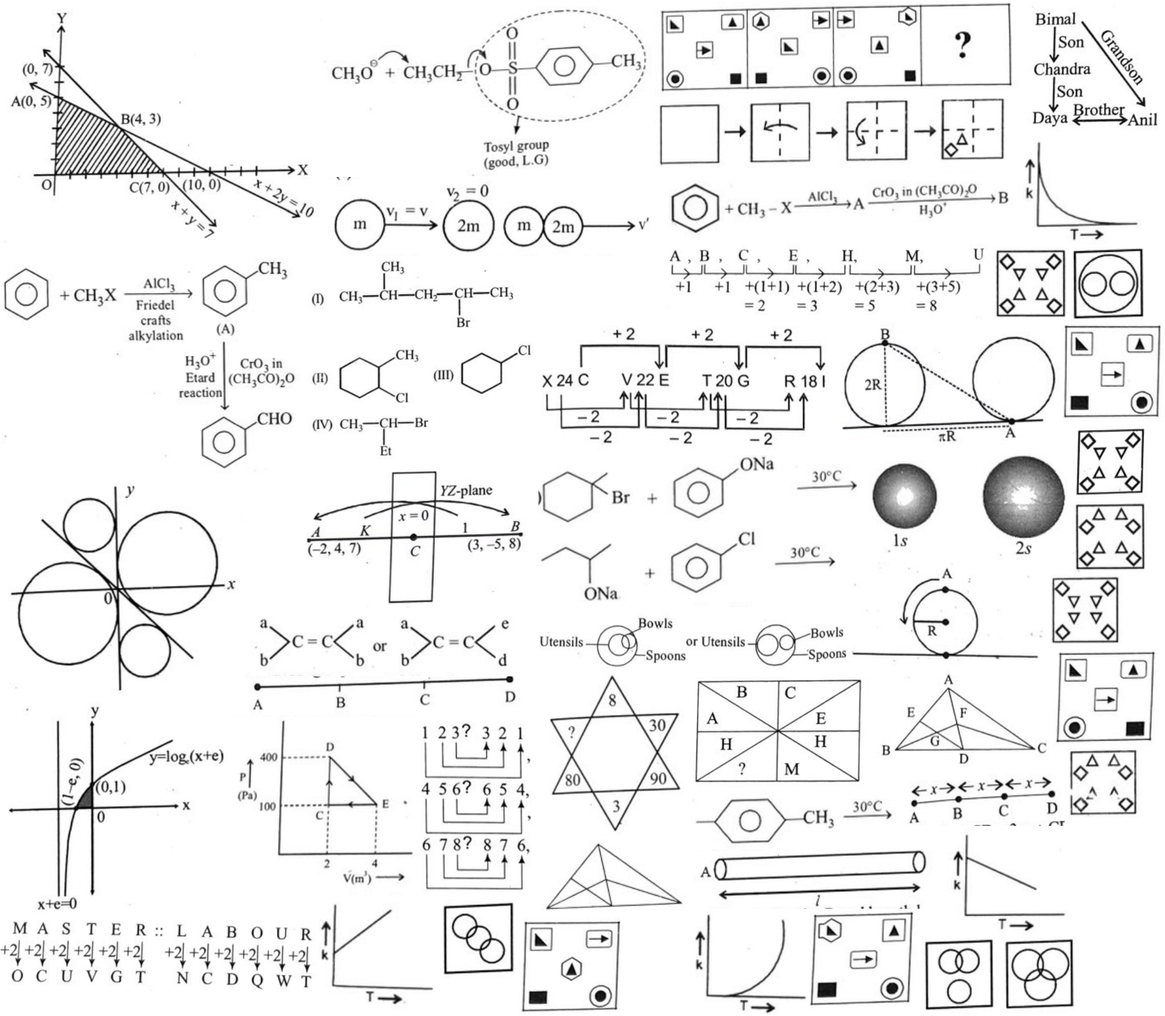
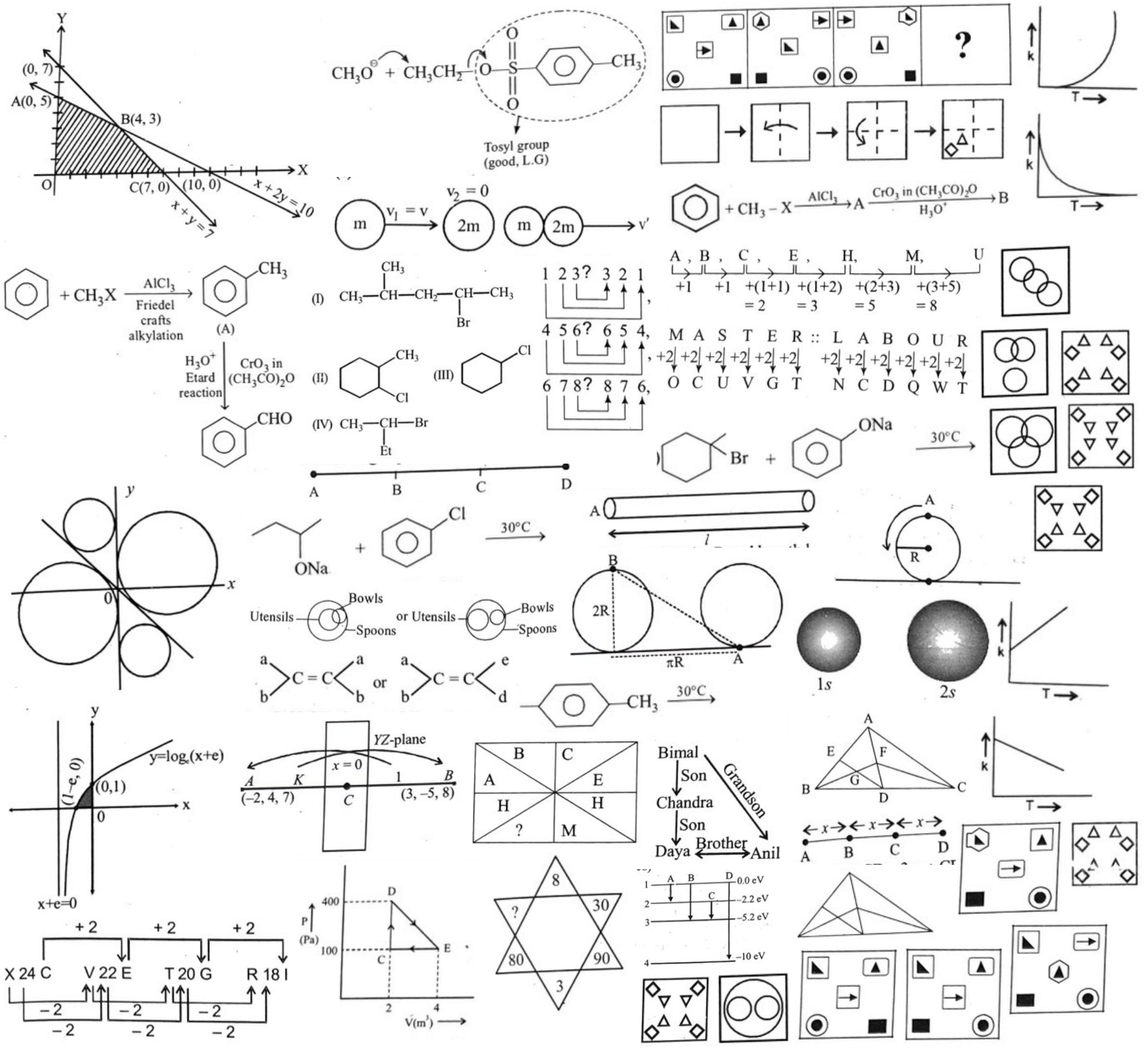
fixed

Changed region(s): [[0.0, 0.0, 1.0, 1.0], [0.0, 0.4601, 0.2173, 0.6748]]

diff --git a/img/engg/bitsat/prev/bitsat_2023_s1.css b/img/engg/bitsat/prev/bitsat_2023_s1.css
@@ -8,151 +8,154 @@ Responsive: <div class="yourspritesname"></div>
 
 
 .BITSAT_2023_S1_Q_1 {max-width:446px; max-height:62px; }
-.BITSAT_2023_S1_Q_1::after {content: '\00a0';display: inline-block; width:446px; height:62px; background-position: 27.668539325842698% 69.19642857142857%;background-size: 419.2825112107623% 2629.032258064516%;background-image: url(bitsat_2023_s1.png);padding: 0; }
+.BITSAT_2023_S1_Q_1::after {content: '\00a0';display: inline-block; width:446px; height:62px; background-position: 34.82014388489208% 45.925925925925924%;background-size: 411.6591928251121% 2712.9032258064517%;background-image: url(bitsat_2023_s1.png);padding: 0; }
 div.BITSAT_2023_S1_Q_1::after {max-width:446px; width:100%;height:0;padding: 0 0 13.90134529147982% 0;}
 .BITSAT_2023_S1_Q_11 {max-width:293px; max-height:289px; }
-.BITSAT_2023_S1_Q_11::after {content: '\00a0';display: inline-block; width:293px; height:289px; background-position: 23.906150919467343% 85.60775540641312%;background-size: 638.2252559726962% 564.0138408304498%;background-image: url(bitsat_2023_s1.png);padding: 0; }
+.BITSAT_2023_S1_Q_11::after {content: '\00a0';display: inline-block; width:293px; height:289px; background-position: 30.84899546338302% 99.06676238334529%;background-size: 626.6211604095563% 582.006920415225%;background-image: url(bitsat_2023_s1.png);padding: 0; }
 div.BITSAT_2023_S1_Q_11::after {max-width:293px; width:100%;height:0;padding: 0 0 98.63481228668942% 0;}
 .BITSAT_2023_S1_Q_23 {max-width:313px; max-height:167px; }
-.BITSAT_2023_S1_Q_23::after {content: '\00a0';display: inline-block; width:313px; height:167px; background-position: 87.79704560051381% 61.65413533834587%;background-size: 597.444089456869% 976.0479041916168%;background-image: url(bitsat_2023_s1.png);padding: 0; }
+.BITSAT_2023_S1_Q_23::after {content: '\00a0';display: inline-block; width:313px; height:167px; background-position: 87.91858174655286% 51.74917491749175%;background-size: 586.5814696485623% 1007.185628742515%;background-image: url(bitsat_2023_s1.png);padding: 0; }
 div.BITSAT_2023_S1_Q_23::after {max-width:313px; width:100%;height:0;padding: 0 0 53.35463258785943% 0;}
+.BITSAT_2023_S1_Q_30 {max-width:221px; max-height:163px; }
+.BITSAT_2023_S1_Q_30::after {content: '\00a0';display: inline-block; width:221px; height:163px; background-position: 63.09597523219814% 91.83673469387755%;background-size: 830.7692307692307% 1031.9018404907974%;background-image: url(bitsat_2023_s1.png);padding: 0; }
+div.BITSAT_2023_S1_Q_30::after {max-width:221px; width:100%;height:0;padding: 0 0 73.75565610859728% 0;}
 .BITSAT_2023_S1_Q_33 {max-width:328px; max-height:180px; }
-.BITSAT_2023_S1_Q_33::after {content: '\00a0';display: inline-block; width:328px; height:180px; background-position: 90.07782101167315% 49.724137931034484%;background-size: 570.1219512195122% 905.5555555555555%;background-image: url(bitsat_2023_s1.png);padding: 0; }
+.BITSAT_2023_S1_Q_33::after {content: '\00a0';display: inline-block; width:328px; height:180px; background-position: 84.0185676392573% 63.38215712383489%;background-size: 559.7560975609756% 934.4444444444445%;background-image: url(bitsat_2023_s1.png);padding: 0; }
 div.BITSAT_2023_S1_Q_33::after {max-width:328px; width:100%;height:0;padding: 0 0 54.8780487804878% 0;}
 .BITSAT_2023_S1_Q_38_O_1 {max-width:188px; max-height:170px; }
-.BITSAT_2023_S1_Q_38_O_1::after {content: '\00a0';display: inline-block; width:188px; height:170px; background-position: 65.9334126040428% 99.93150684931507%;background-size: 994.6808510638298% 958.8235294117648%;background-image: url(bitsat_2023_s1.png);padding: 0; }
+.BITSAT_2023_S1_Q_38_O_1::after {content: '\00a0';display: inline-block; width:188px; height:170px; background-position: 99.5752427184466% 0.06613756613756613%;background-size: 976.5957446808511% 989.4117647058823%;background-image: url(bitsat_2023_s1.png);padding: 0; }
 div.BITSAT_2023_S1_Q_38_O_1::after {max-width:188px; width:100%;height:0;padding: 0 0 90.42553191489361% 0;}
 .BITSAT_2023_S1_Q_38_O_2 {max-width:187px; max-height:183px; }
-.BITSAT_2023_S1_Q_38_O_2::after {content: '\00a0';display: inline-block; width:187px; height:183px; background-position: 30.36244800950683% 99.37802349689012%;background-size: 1000% 890.7103825136612%;background-image: url(bitsat_2023_s1.png);padding: 0; }
+.BITSAT_2023_S1_Q_38_O_2::after {content: '\00a0';display: inline-block; width:187px; height:183px; background-position: 96.78593086719223% 63.50900600400267%;background-size: 981.8181818181819% 919.1256830601093%;background-image: url(bitsat_2023_s1.png);padding: 0; }
 div.BITSAT_2023_S1_Q_38_O_2::after {max-width:187px; width:100%;height:0;padding: 0 0 97.86096256684492% 0;}
 .BITSAT_2023_S1_Q_38_O_3 {max-width:200px; max-height:177px; }
-.BITSAT_2023_S1_Q_38_O_3::after {content: '\00a0';display: inline-block; width:200px; height:177px; background-position: 97.78443113772455% 15.003441156228492%;background-size: 935% 920.9039548022599%;background-image: url(bitsat_2023_s1.png);padding: 0; }
+.BITSAT_2023_S1_Q_38_O_3::after {content: '\00a0';display: inline-block; width:200px; height:177px; background-position: 99.81662591687042% 11.428571428571429%;background-size: 918% 950.2824858757062%;background-image: url(bitsat_2023_s1.png);padding: 0; }
 div.BITSAT_2023_S1_Q_38_O_3::after {max-width:200px; width:100%;height:0;padding: 0 0 88.5% 0;}
 .BITSAT_2023_S1_Q_38_O_4 {max-width:199px; max-height:177px; }
-.BITSAT_2023_S1_Q_38_O_4::after {content: '\00a0';display: inline-block; width:199px; height:177px; background-position: 90.78396169958108% 91.25946317962836%;background-size: 939.6984924623116% 920.9039548022599%;background-image: url(bitsat_2023_s1.png);padding: 0; }
+.BITSAT_2023_S1_Q_38_O_4::after {content: '\00a0';display: inline-block; width:199px; height:177px; background-position: 95.35736102626757% 75.48172757475083%;background-size: 922.6130653266332% 950.2824858757062%;background-image: url(bitsat_2023_s1.png);padding: 0; }
 div.BITSAT_2023_S1_Q_38_O_4::after {max-width:199px; width:100%;height:0;padding: 0 0 88.94472361809045% 0;}
 .BITSAT_2023_S1_Q_53 {max-width:569px; max-height:103px; }
-.BITSAT_2023_S1_Q_53::after {content: '\00a0';display: inline-block; width:569px; height:103px; background-position: 81.70637970791698% 18.271119842829076%;background-size: 328.6467486818981% 1582.5242718446602%;background-image: url(bitsat_2023_s1.png);padding: 0; }
+.BITSAT_2023_S1_Q_53::after {content: '\00a0';display: inline-block; width:569px; height:103px; background-position: 83.89897395422257% 17.66941101963268%;background-size: 322.6713532513181% 1633.009708737864%;background-image: url(bitsat_2023_s1.png);padding: 0; }
 div.BITSAT_2023_S1_Q_53::after {max-width:569px; width:100%;height:0;padding: 0 0 18.101933216168717% 0;}
 .BITSAT_2023_S1_Q_54_O_1 {max-width:524px; max-height:121px; }
-.BITSAT_2023_S1_Q_54_O_1::after {content: '\00a0';display: inline-block; width:524px; height:121px; background-position: 64.19019316493313% 48.04506295559973%;background-size: 356.8702290076336% 1347.107438016529%;background-image: url(bitsat_2023_s1.png);padding: 0; }
+.BITSAT_2023_S1_Q_54_O_1::after {content: '\00a0';display: inline-block; width:524px; height:121px; background-position: 80.33536585365853% 42.40871236386931%;background-size: 350.381679389313% 1390.0826446280992%;background-image: url(bitsat_2023_s1.png);padding: 0; }
 div.BITSAT_2023_S1_Q_54_O_1::after {max-width:524px; width:100%;height:0;padding: 0 0 23.091603053435115% 0;}
 .BITSAT_2023_S1_Q_54_O_2 {max-width:497px; max-height:127px; }
-.BITSAT_2023_S1_Q_54_O_2::after {content: '\00a0';display: inline-block; width:497px; height:127px; background-position: 62.563729060451564% 56.35395874916833%;background-size: 376.2575452716298% 1283.4645669291338%;background-image: url(bitsat_2023_s1.png);padding: 0; }
+.BITSAT_2023_S1_Q_54_O_2::after {content: '\00a0';display: inline-block; width:497px; height:127px; background-position: 29.424943988050785% 51.89710610932476%;background-size: 369.4164989939638% 1324.4094488188975%;background-image: url(bitsat_2023_s1.png);padding: 0; }
 div.BITSAT_2023_S1_Q_54_O_2::after {max-width:497px; width:100%;height:0;padding: 0 0 25.553319919517104% 0;}
 .BITSAT_2023_S1_Q_54_O_3 {max-width:328px; max-height:93px; }
-.BITSAT_2023_S1_Q_54_O_3::after {content: '\00a0';display: inline-block; width:328px; height:93px; background-position: 71.98443579766537% 82.56343526350032%;background-size: 570.1219512195122% 1752.6881720430108%;background-image: url(bitsat_2023_s1.png);padding: 0; }
+.BITSAT_2023_S1_Q_54_O_3::after {content: '\00a0';display: inline-block; width:328px; height:93px; background-position: 54.84084880636605% 68.21900566393958%;background-size: 559.7560975609756% 1808.6021505376343%;background-image: url(bitsat_2023_s1.png);padding: 0; }
 div.BITSAT_2023_S1_Q_54_O_3::after {max-width:328px; width:100%;height:0;padding: 0 0 28.353658536585368% 0;}
 .BITSAT_2023_S1_Q_55 {max-width:379px; max-height:331px; }
-.BITSAT_2023_S1_Q_55::after {content: '\00a0';display: inline-block; width:379px; height:331px; background-position: 32.46143527833669% 31.716705157813703%;background-size: 493.40369393139844% 492.4471299093656%;background-image: url(bitsat_2023_s1.png);padding: 0; }
+.BITSAT_2023_S1_Q_55::after {content: '\00a0';display: inline-block; width:379px; height:331px; background-position: 33.21894303363075% 30.495928941524795%;background-size: 484.4327176781003% 508.1570996978852%;background-image: url(bitsat_2023_s1.png);padding: 0; }
 div.BITSAT_2023_S1_Q_55::after {max-width:379px; width:100%;height:0;padding: 0 0 87.33509234828496% 0;}
 .BITSAT_2023_S1_Q_72 {max-width:581px; max-height:120px; }
-.BITSAT_2023_S1_Q_72::after {content: '\00a0';display: inline-block; width:581px; height:120px; background-position: 81.38091543832428% 10.463576158940397%;background-size: 321.85886402753874% 1358.3333333333333%;background-image: url(bitsat_2023_s1.png);padding: 0; }
+.BITSAT_2023_S1_Q_72::after {content: '\00a0';display: inline-block; width:581px; height:120px; background-position: 83.58565737051792% 10.115236875800257%;background-size: 316.0068846815835% 1401.6666666666667%;background-image: url(bitsat_2023_s1.png);padding: 0; }
 div.BITSAT_2023_S1_Q_72::after {max-width:581px; width:100%;height:0;padding: 0 0 20.65404475043029% 0;}
 .BITSAT_2023_S1_Q_72_O_1 {max-width:123px; max-height:113px; }
-.BITSAT_2023_S1_Q_72_O_1::after {content: '\00a0';display: inline-block; width:123px; height:113px; background-position: 97.88208357183744% 79.03757415952538%;background-size: 1520.3252032520325% 1442.4778761061948%;background-image: url(bitsat_2023_s1.png);padding: 0; }
+.BITSAT_2023_S1_Q_72_O_1::after {content: '\00a0';display: inline-block; width:123px; height:113px; background-position: 99.94162288382954% 83.74760994263862%;background-size: 1492.6829268292684% 1488.495575221239%;background-image: url(bitsat_2023_s1.png);padding: 0; }
 div.BITSAT_2023_S1_Q_72_O_1::after {max-width:123px; width:100%;height:0;padding: 0 0 91.869918699187% 0;}
 .BITSAT_2023_S1_Q_72_O_2 {max-width:124px; max-height:118px; }
-.BITSAT_2023_S1_Q_72_O_2::after {content: '\00a0';display: inline-block; width:124px; height:118px; background-position: 98.39633447880871% 53.042328042328045%;background-size: 1508.0645161290322% 1381.3559322033898%;background-image: url(bitsat_2023_s1.png);padding: 0; }
+.BITSAT_2023_S1_Q_72_O_2::after {content: '\00a0';display: inline-block; width:124px; height:118px; background-position: 98.94859813084112% 33.43989769820972%;background-size: 1480.6451612903227% 1425.4237288135594%;background-image: url(bitsat_2023_s1.png);padding: 0; }
 div.BITSAT_2023_S1_Q_72_O_2::after {max-width:124px; width:100%;height:0;padding: 0 0 95.16129032258064% 0;}
 .BITSAT_2023_S1_Q_72_O_3 {max-width:124px; max-height:118px; }
-.BITSAT_2023_S1_Q_72_O_3::after {content: '\00a0';display: inline-block; width:124px; height:118px; background-position: 96.27720504009164% 60.91269841269841%;background-size: 1508.0645161290322% 1381.3559322033898%;background-image: url(bitsat_2023_s1.png);padding: 0; }
+.BITSAT_2023_S1_Q_72_O_3::after {content: '\00a0';display: inline-block; width:124px; height:118px; background-position: 99.64953271028037% 41.04859335038363%;background-size: 1480.6451612903227% 1425.4237288135594%;background-image: url(bitsat_2023_s1.png);padding: 0; }
 div.BITSAT_2023_S1_Q_72_O_3::after {max-width:124px; width:100%;height:0;padding: 0 0 95.16129032258064% 0;}
 .BITSAT_2023_S1_Q_72_O_4 {max-width:124px; max-height:119px; }
-.BITSAT_2023_S1_Q_72_O_4::after {content: '\00a0';display: inline-block; width:124px; height:119px; background-position: 91.23711340206185% 26.207809397749834%;background-size: 1508.0645161290322% 1369.7478991596638%;background-image: url(bitsat_2023_s1.png);padding: 0; }
+.BITSAT_2023_S1_Q_72_O_4::after {content: '\00a0';display: inline-block; width:124px; height:119px; background-position: 96.55373831775701% 49.45617402431222%;background-size: 1480.6451612903227% 1413.4453781512605%;background-image: url(bitsat_2023_s1.png);padding: 0; }
 div.BITSAT_2023_S1_Q_72_O_4::after {max-width:124px; width:100%;height:0;padding: 0 0 95.96774193548387% 0;}
 .BITSAT_2023_S1_Q_76 {max-width:282px; max-height:189px; }
-.BITSAT_2023_S1_Q_76::after {content: '\00a0';display: inline-block; width:282px; height:189px; background-position: 69.89924433249371% 74.87855655794587%;background-size: 663.1205673758865% 862.4338624338625%;background-image: url(bitsat_2023_s1.png);padding: 0; }
+.BITSAT_2023_S1_Q_76::after {content: '\00a0';display: inline-block; width:282px; height:189px; background-position: 48.39124839124839% 78.90154052243804%;background-size: 651.063829787234% 889.9470899470899%;background-image: url(bitsat_2023_s1.png);padding: 0; }
 div.BITSAT_2023_S1_Q_76::after {max-width:282px; width:100%;height:0;padding: 0 0 67.02127659574468% 0;}
 .BITSAT_2023_S1_Q_85 {max-width:248px; max-height:263px; }
-.BITSAT_2023_S1_Q_85::after {content: '\00a0';display: inline-block; width:248px; height:263px; background-position: 53.0826140567201% 78.9319678127286%;background-size: 754.0322580645161% 619.7718631178707%;background-image: url(bitsat_2023_s1.png);padding: 0; }
+.BITSAT_2023_S1_Q_85::after {content: '\00a0';display: inline-block; width:248px; height:263px; background-position: 48.48866498740554% 96.40591966173362%;background-size: 740.3225806451613% 639.5437262357415%;background-image: url(bitsat_2023_s1.png);padding: 0; }
 div.BITSAT_2023_S1_Q_85::after {max-width:248px; width:100%;height:0;padding: 0 0 106.04838709677419% 0;}
 .BITSAT_2023_S1_Q_88 {max-width:247px; max-height:128px; }
-.BITSAT_2023_S1_Q_88::after {content: '\00a0';display: inline-block; width:247px; height:128px; background-position: 53.049907578558226% 89.41411451398136%;background-size: 757.085020242915% 1273.4375%;background-image: url(bitsat_2023_s1.png);padding: 0; }
+.BITSAT_2023_S1_Q_88::after {content: '\00a0';display: inline-block; width:247px; height:128px; background-position: 79.54688483322845% 89.38223938223938%;background-size: 743.3198380566802% 1314.0625%;background-image: url(bitsat_2023_s1.png);padding: 0; }
 div.BITSAT_2023_S1_Q_88::after {max-width:247px; width:100%;height:0;padding: 0 0 51.821862348178136% 0;}
 .BITSAT_2023_S1_Q_89_1 {max-width:129px; max-height:125px; }
-.BITSAT_2023_S1_Q_89_1::after {content: '\00a0';display: inline-block; width:129px; height:125px; background-position: 84.72142446869616% 99.93355481727575%;background-size: 1449.6124031007753% 1304%;background-image: url(bitsat_2023_s1.png);padding: 0; }
+.BITSAT_2023_S1_Q_89_1::after {content: '\00a0';display: inline-block; width:129px; height:125px; background-position: 91.62272993555946% 33.59023763648041%;background-size: 1423.2558139534883% 1345.6%;background-image: url(bitsat_2023_s1.png);padding: 0; }
 div.BITSAT_2023_S1_Q_89_1::after {max-width:129px; width:100%;height:0;padding: 0 0 96.89922480620154% 0;}
 .BITSAT_2023_S1_Q_89_2 {max-width:133px; max-height:139px; }
-.BITSAT_2023_S1_Q_89_2::after {content: '\00a0';display: inline-block; width:133px; height:139px; background-position: 40.241796200345426% 96.37826961770624%;background-size: 1406.015037593985% 1172.6618705035971%;background-image: url(bitsat_2023_s1.png);padding: 0; }
+.BITSAT_2023_S1_Q_89_2::after {content: '\00a0';display: inline-block; width:133px; height:139px; background-position: 93.54081033470347% 24.821775761503563%;background-size: 1380.451127819549% 1210.071942446043%;background-image: url(bitsat_2023_s1.png);padding: 0; }
 div.BITSAT_2023_S1_Q_89_2::after {max-width:133px; width:100%;height:0;padding: 0 0 104.51127819548873% 0;}
 .BITSAT_2023_S1_Q_89_3 {max-width:126px; max-height:123px; }
-.BITSAT_2023_S1_Q_89_3::after {content: '\00a0';display: inline-block; width:126px; height:123px; background-position: 92.02981651376147% 99.80092899800928%;background-size: 1484.126984126984% 1325.2032520325204%;background-image: url(bitsat_2023_s1.png);padding: 0; }
+.BITSAT_2023_S1_Q_89_3::after {content: '\00a0';display: inline-block; width:126px; height:123px; background-position: 92.3391812865497% 41.629249518922386%;background-size: 1457.142857142857% 1367.479674796748%;background-image: url(bitsat_2023_s1.png);padding: 0; }
 div.BITSAT_2023_S1_Q_89_3::after {max-width:126px; width:100%;height:0;padding: 0 0 97.61904761904762% 0;}
 .BITSAT_2023_S1_Q_89_4 {max-width:127px; max-height:121px; }
-.BITSAT_2023_S1_Q_89_4::after {content: '\00a0';display: inline-block; width:127px; height:121px; background-position: 98.56569133677567% 26.242544731610337%;background-size: 1472.4409448818897% 1347.107438016529%;background-image: url(bitsat_2023_s1.png);padding: 0; }
+.BITSAT_2023_S1_Q_89_4::after {content: '\00a0';display: inline-block; width:127px; height:121px; background-position: 67.17378583967232% 99.87187700192185%;background-size: 1445.6692913385828% 1390.0826446280992%;background-image: url(bitsat_2023_s1.png);padding: 0; }
 div.BITSAT_2023_S1_Q_89_4::after {max-width:127px; width:100%;height:0;padding: 0 0 95.2755905511811% 0;}
 .BITSAT_2023_S1_Q_90 {max-width:591px; max-height:156px; }
-.BITSAT_2023_S1_Q_90::after {content: '\00a0';display: inline-block; width:591px; height:156px; background-position: 82.01720093823299% 0.06784260515603799%;background-size: 316.41285956006766% 1044.871794871795%;background-image: url(bitsat_2023_s1.png);padding: 0; }
+.BITSAT_2023_S1_Q_90::after {content: '\00a0';display: inline-block; width:591px; height:156px; background-position: 84.2570281124498% 0.0655307994757536%;background-size: 310.65989847715736% 1078.2051282051282%;background-image: url(bitsat_2023_s1.png);padding: 0; }
 div.BITSAT_2023_S1_Q_90::after {max-width:591px; width:100%;height:0;padding: 0 0 26.395939086294415% 0;}
 .BITSAT_2023_S1_Q_90_1 {max-width:165px; max-height:160px; }
-.BITSAT_2023_S1_Q_90_1::after {content: '\00a0';display: inline-block; width:165px; height:160px; background-position: 99.94134897360703% 35.23809523809524%;background-size: 1133.3333333333333% 1018.75%;background-image: url(bitsat_2023_s1.png);padding: 0; }
+.BITSAT_2023_S1_Q_90_1::after {content: '\00a0';display: inline-block; width:165px; height:160px; background-position: 86.71454219030521% 99.73718791064388%;background-size: 1112.7272727272727% 1051.25%;background-image: url(bitsat_2023_s1.png);padding: 0; }
 div.BITSAT_2023_S1_Q_90_1::after {max-width:165px; width:100%;height:0;padding: 0 0 96.96969696969697% 0;}
 .BITSAT_2023_S1_Q_90_2 {max-width:169px; max-height:155px; }
-.BITSAT_2023_S1_Q_90_2::after {content: '\00a0';display: inline-block; width:169px; height:155px; background-position: 48.97119341563786% 99.79661016949153%;background-size: 1106.508875739645% 1051.6129032258063%;background-image: url(bitsat_2023_s1.png);padding: 0; }
+.BITSAT_2023_S1_Q_90_2::after {content: '\00a0';display: inline-block; width:169px; height:155px; background-position: 96.88062387522496% 96.72560576293385%;background-size: 1086.3905325443786% 1085.1612903225807%;background-image: url(bitsat_2023_s1.png);padding: 0; }
 div.BITSAT_2023_S1_Q_90_2::after {max-width:169px; width:100%;height:0;padding: 0 0 91.71597633136095% 0;}
 .BITSAT_2023_S1_Q_90_3 {max-width:172px; max-height:158px; }
-.BITSAT_2023_S1_Q_90_3::after {content: '\00a0';display: inline-block; width:172px; height:158px; background-position: 99.52885747938751% 70.65217391304348%;background-size: 1087.2093023255813% 1031.6455696202531%;background-image: url(bitsat_2023_s1.png);padding: 0; }
+.BITSAT_2023_S1_Q_90_3::after {content: '\00a0';display: inline-block; width:172px; height:158px; background-position: 76.6826923076923% 99.60629921259843%;background-size: 1067.4418604651162% 1064.5569620253164%;background-image: url(bitsat_2023_s1.png);padding: 0; }
 div.BITSAT_2023_S1_Q_90_3::after {max-width:172px; width:100%;height:0;padding: 0 0 91.86046511627907% 0;}
 .BITSAT_2023_S1_Q_90_4 {max-width:176px; max-height:162px; }
-.BITSAT_2023_S1_Q_90_4::after {content: '\00a0';display: inline-block; width:176px; height:162px; background-position: 76.62337662337663% 99.38692098092643%;background-size: 1062.5% 1006.1728395061729%;background-image: url(bitsat_2023_s1.png);padding: 0; }
+.BITSAT_2023_S1_Q_90_4::after {content: '\00a0';display: inline-block; width:176px; height:162px; background-position: 92.46987951807229% 86.44736842105263%;background-size: 1043.1818181818182% 1038.2716049382716%;background-image: url(bitsat_2023_s1.png);padding: 0; }
 div.BITSAT_2023_S1_Q_90_4::after {max-width:176px; width:100%;height:0;padding: 0 0 92.04545454545455% 0;}
 .BITSAT_2023_S1_S_1 {max-width:270px; max-height:84px; }
-.BITSAT_2023_S1_S_1::after {content: '\00a0';display: inline-block; width:270px; height:84px; background-position: 89.9375% 80.27166882276843%;background-size: 692.5925925925926% 1940.4761904761904%;background-image: url(bitsat_2023_s1.png);padding: 0; }
+.BITSAT_2023_S1_S_1::after {content: '\00a0';display: inline-block; width:270px; height:84px; background-position: 80.71519795657727% 81.60200250312892%;background-size: 680% 2002.3809523809523%;background-image: url(bitsat_2023_s1.png);padding: 0; }
 div.BITSAT_2023_S1_S_1::after {max-width:270px; width:100%;height:0;padding: 0 0 31.11111111111111% 0;}
 .BITSAT_2023_S1_S_113 {max-width:375px; max-height:348px; }
-.BITSAT_2023_S1_S_113::after {content: '\00a0';display: inline-block; width:375px; height:348px; background-position: 0.06688963210702341% 87.3634945397816%;background-size: 498.6666666666667% 468.39080459770116%;background-image: url(bitsat_2023_s1.png);padding: 0; }
+.BITSAT_2023_S1_S_113::after {content: '\00a0';display: inline-block; width:375px; height:348px; background-position: 0.06844626967830253% 83.95802098950524%;background-size: 489.6% 483.3333333333333%;background-image: url(bitsat_2023_s1.png);padding: 0; }
 div.BITSAT_2023_S1_S_113::after {max-width:375px; width:100%;height:0;padding: 0 0 92.8% 0;}
 .BITSAT_2023_S1_S_118 {max-width:517px; max-height:395px; }
-.BITSAT_2023_S1_S_118::after {content: '\00a0';display: inline-block; width:517px; height:395px; background-position: 0.07390983000739099% 0.08097165991902834%;background-size: 361.70212765957444% 412.65822784810126%;background-image: url(bitsat_2023_s1.png);padding: 0; }
+.BITSAT_2023_S1_S_118::after {content: '\00a0';display: inline-block; width:517px; height:395px; background-position: 0.0758150113722517% 0.0777000777000777%;background-size: 355.1257253384913% 425.82278481012656%;background-image: url(bitsat_2023_s1.png);padding: 0; }
 div.BITSAT_2023_S1_S_118::after {max-width:517px; width:100%;height:0;padding: 0 0 76.40232108317214% 0;}
 .BITSAT_2023_S1_S_124 {max-width:392px; max-height:354px; }
-.BITSAT_2023_S1_S_124::after {content: '\00a0';display: inline-block; width:392px; height:354px; background-position: 0.06765899864682003% 59.95297805642633%;background-size: 477.0408163265306% 460.45197740112997%;background-image: url(bitsat_2023_s1.png);padding: 0; }
+.BITSAT_2023_S1_S_124::after {content: '\00a0';display: inline-block; width:392px; height:354px; background-position: 0.06925207756232687% 57.605421686746986%;background-size: 468.3673469387755% 475.1412429378531%;background-image: url(bitsat_2023_s1.png);padding: 0; }
 div.BITSAT_2023_S1_S_124::after {max-width:392px; width:100%;height:0;padding: 0 0 90.3061224489796% 0;}
 .BITSAT_2023_S1_S_19 {max-width:543px; max-height:127px; }
-.BITSAT_2023_S1_S_19::after {content: '\00a0';display: inline-block; width:543px; height:127px; background-position: 39.11077618688772% 18.89554224883566%;background-size: 344.3830570902394% 1283.4645669291338%;background-image: url(bitsat_2023_s1.png);padding: 0; }
+.BITSAT_2023_S1_S_19::after {content: '\00a0';display: inline-block; width:543px; height:127px; background-position: 40.13921113689095% 18.263665594855304%;background-size: 338.121546961326% 1324.4094488188975%;background-image: url(bitsat_2023_s1.png);padding: 0; }
 div.BITSAT_2023_S1_S_19::after {max-width:543px; width:100%;height:0;padding: 0 0 23.388581952117864% 0;}
 .BITSAT_2023_S1_S_23 {max-width:364px; max-height:203px; }
-.BITSAT_2023_S1_S_23::after {content: '\00a0';display: inline-block; width:364px; height:203px; background-position: 88.91102257636122% 36.229852838121936%;background-size: 513.7362637362637% 802.9556650246305%;background-image: url(bitsat_2023_s1.png);padding: 0; }
+.BITSAT_2023_S1_S_23::after {content: '\00a0';display: inline-block; width:364px; height:203px; background-position: 61.27717391304348% 59.49966193373901%;background-size: 504.3956043956044% 828.5714285714286%;background-image: url(bitsat_2023_s1.png);padding: 0; }
 div.BITSAT_2023_S1_S_23::after {max-width:364px; width:100%;height:0;padding: 0 0 55.76923076923077% 0;}
 .BITSAT_2023_S1_S_44 {max-width:432px; max-height:104px; }
-.BITSAT_2023_S1_S_44::after {content: '\00a0';display: inline-block; width:432px; height:104px; background-position: 27.399165507649514% 64.22018348623853%;background-size: 432.8703703703704% 1567.3076923076924%;background-image: url(bitsat_2023_s1.png);padding: 0; }
+.BITSAT_2023_S1_S_44::after {content: '\00a0';display: inline-block; width:432px; height:104px; background-position: 28.062678062678064% 65.8428390367554%;background-size: 425% 1617.3076923076924%;background-image: url(bitsat_2023_s1.png);padding: 0; }
 div.BITSAT_2023_S1_S_44::after {max-width:432px; width:100%;height:0;padding: 0 0 24.074074074074073% 0;}
 .BITSAT_2023_S1_S_53 {max-width:482px; max-height:367px; }
-.BITSAT_2023_S1_S_53::after {content: '\00a0';display: inline-block; width:482px; height:367px; background-position: 0.07204610951008646% 31.43309580364212%;background-size: 387.9668049792531% 444.141689373297%;background-image: url(bitsat_2023_s1.png);padding: 0; }
+.BITSAT_2023_S1_S_53::after {content: '\00a0';display: inline-block; width:482px; height:367px; background-position: 0.07385524372230429% 30.190114068441066%;background-size: 380.9128630705394% 458.3106267029973%;background-image: url(bitsat_2023_s1.png);padding: 0; }
 div.BITSAT_2023_S1_S_53::after {max-width:482px; width:100%;height:0;padding: 0 0 76.14107883817428% 0;}
 .BITSAT_2023_S1_S_54 {max-width:529px; max-height:282px; }
-.BITSAT_2023_S1_S_54::after {content: '\00a0';display: inline-block; width:529px; height:282px; background-position: 38.702460850111855% 0.07418397626112759%;background-size: 353.4971644612476% 578.0141843971631%;background-image: url(bitsat_2023_s1.png);padding: 0; }
+.BITSAT_2023_S1_S_54::after {content: '\00a0';display: inline-block; width:529px; height:282px; background-position: 39.709257842387146% 0.07142857142857142%;background-size: 347.06994328922497% 596.4539007092199%;background-image: url(bitsat_2023_s1.png);padding: 0; }
 div.BITSAT_2023_S1_S_54::after {max-width:529px; width:100%;height:0;padding: 0 0 53.30812854442344% 0;}
 .BITSAT_2023_S1_S_71 {max-width:509px; max-height:144px; }
-.BITSAT_2023_S1_S_71::after {content: '\00a0';display: inline-block; width:509px; height:144px; background-position: 0.07347538574577517% 98.85598923283983%;background-size: 367.38703339882125% 1131.9444444444443%;background-image: url(bitsat_2023_s1.png);padding: 0; }
+.BITSAT_2023_S1_S_71::after {content: '\00a0';display: inline-block; width:509px; height:144px; background-position: 79.42727957799548% 33.61508452535761%;background-size: 360.7072691552063% 1168.0555555555557%;background-image: url(bitsat_2023_s1.png);padding: 0; }
 div.BITSAT_2023_S1_S_71::after {max-width:509px; width:100%;height:0;padding: 0 0 28.290766208251473% 0;}
 .BITSAT_2023_S1_S_72 {max-width:128px; max-height:122px; }
-.BITSAT_2023_S1_S_72::after {content: '\00a0';display: inline-block; width:128px; height:122px; background-position: 98.62227324913891% 45.02652519893899%;background-size: 1460.9375% 1336.0655737704917%;background-image: url(bitsat_2023_s1.png);padding: 0; }
+.BITSAT_2023_S1_S_72::after {content: '\00a0';display: inline-block; width:128px; height:122px; background-position: 59.66042154566745% 99.93589743589743%;background-size: 1434.375% 1378.688524590164%;background-image: url(bitsat_2023_s1.png);padding: 0; }
 div.BITSAT_2023_S1_S_72::after {max-width:128px; width:100%;height:0;padding: 0 0 95.3125% 0;}
 .BITSAT_2023_S1_S_74 {max-width:228px; max-height:216px; }
-.BITSAT_2023_S1_S_74::after {content: '\00a0';display: inline-block; width:228px; height:216px; background-position: 99.93909866017053% 0.07072135785007072%;background-size: 820.1754385964912% 754.6296296296297%;background-image: url(bitsat_2023_s1.png);padding: 0; }
+.BITSAT_2023_S1_S_74::after {content: '\00a0';display: inline-block; width:228px; height:216px; background-position: 64.36567164179104% 80.35470668485675%;background-size: 805.2631578947369% 778.7037037037037%;background-image: url(bitsat_2023_s1.png);padding: 0; }
 div.BITSAT_2023_S1_S_74::after {max-width:228px; width:100%;height:0;padding: 0 0 94.73684210526316% 0;}
 .BITSAT_2023_S1_S_74_1 {max-width:529px; max-height:133px; }
-.BITSAT_2023_S1_S_74_1::after {content: '\00a0';display: inline-block; width:529px; height:133px; background-position: 79.26920208799403% 25.58450233800935%;background-size: 353.4971644612476% 1225.563909774436%;background-image: url(bitsat_2023_s1.png);padding: 0; }
+.BITSAT_2023_S1_S_74_1::after {content: '\00a0';display: inline-block; width:529px; height:133px; background-position: 81.33129303749044% 24.725629438347323%;background-size: 347.06994328922497% 1264.6616541353383%;background-image: url(bitsat_2023_s1.png);padding: 0; }
 div.BITSAT_2023_S1_S_74_1::after {max-width:529px; width:100%;height:0;padding: 0 0 25.141776937618147% 0;}
 .BITSAT_2023_S1_S_78 {max-width:507px; max-height:103px; }
-.BITSAT_2023_S1_S_78::after {content: '\00a0';display: inline-block; width:507px; height:103px; background-position: 63.02274394717535% 63.850687622789785%;background-size: 368.836291913215% 1582.5242718446602%;background-image: url(bitsat_2023_s1.png);padding: 0; }
+.BITSAT_2023_S1_S_78::after {content: '\00a0';display: inline-block; width:507px; height:103px; background-position: 29.646350639578632% 59.21469284357188%;background-size: 362.1301775147929% 1633.009708737864%;background-image: url(bitsat_2023_s1.png);padding: 0; }
 div.BITSAT_2023_S1_S_78::after {max-width:507px; width:100%;height:0;padding: 0 0 20.315581854043394% 0;}
 .BITSAT_2023_S1_S_82 {max-width:474px; max-height:207px; }
-.BITSAT_2023_S1_S_82::after {content: '\00a0';display: inline-block; width:474px; height:207px; background-position: 61.891117478510026% 36.33169360505973%;background-size: 394.51476793248946% 787.43961352657%;background-image: url(bitsat_2023_s1.png);padding: 0; }
+.BITSAT_2023_S1_S_82::after {content: '\00a0';display: inline-block; width:474px; height:207px; background-position: 0.07342143906020558% 99.59322033898304%;background-size: 387.34177215189874% 812.56038647343%;background-image: url(bitsat_2023_s1.png);padding: 0; }
 div.BITSAT_2023_S1_S_82::after {max-width:474px; width:100%;height:0;padding: 0 0 43.67088607594937% 0;}
 .BITSAT_2023_S1_S_84 {max-width:189px; max-height:288px; }
-.BITSAT_2023_S1_S_84::after {content: '\00a0';display: inline-block; width:189px; height:288px; background-position: 39.91671624033314% 85.54396423248882%;background-size: 989.4179894179895% 565.9722222222222%;background-image: url(bitsat_2023_s1.png);padding: 0; }
+.BITSAT_2023_S1_S_84::after {content: '\00a0';display: inline-block; width:189px; height:288px; background-position: 52.459016393442624% 29.555236728837876%;background-size: 971.4285714285714% 584.0277777777778%;background-image: url(bitsat_2023_s1.png);padding: 0; }
 div.BITSAT_2023_S1_S_84::after {max-width:189px; width:100%;height:0;padding: 0 0 152.38095238095238% 0;}
 .BITSAT_2023_S1_S_88 {max-width:296px; max-height:170px; }
-.BITSAT_2023_S1_S_88::after {content: '\00a0';display: inline-block; width:296px; height:170px; background-position: 88.50063532401525% 73.28767123287672%;background-size: 631.7567567567568% 958.8235294117648%;background-image: url(bitsat_2023_s1.png);padding: 0; }
+.BITSAT_2023_S1_S_88::after {content: '\00a0';display: inline-block; width:296px; height:170px; background-position: 82.07792207792208% 74.93386243386243%;background-size: 620.2702702702703% 989.4117647058823%;background-image: url(bitsat_2023_s1.png);padding: 0; }
 div.BITSAT_2023_S1_S_88::after {max-width:296px; width:100%;height:0;padding: 0 0 57.432432432432435% 0;}
 .BITSAT_2023_S1_S_9 {max-width:407px; max-height:95px; }
-.BITSAT_2023_S1_S_9::after {content: '\00a0';display: inline-block; width:407px; height:95px; background-position: 75.80314422419686% 88.79478827361564%;background-size: 459.4594594594595% 1715.7894736842106%;background-image: url(bitsat_2023_s1.png);padding: 0; }
+.BITSAT_2023_S1_S_9::after {content: '\00a0';display: inline-block; width:407px; height:95px; background-position: 65.15045486354094% 49.401386263390044%;background-size: 451.10565110565113% 1770.5263157894738%;background-image: url(bitsat_2023_s1.png);padding: 0; }
 div.BITSAT_2023_S1_S_9::after {max-width:407px; width:100%;height:0;padding: 0 0 23.34152334152334% 0;}
 .BITSAT_2023_S1_S_93 {max-width:374px; max-height:235px; }
-.BITSAT_2023_S1_S_93::after {content: '\00a0';display: inline-block; width:374px; height:235px; background-position: 32.35294117647059% 53.333333333333336%;background-size: 500% 693.6170212765958%;background-image: url(bitsat_2023_s1.png);padding: 0; }
+.BITSAT_2023_S1_S_93::after {content: '\00a0';display: inline-block; width:374px; height:235px; background-position: 25.786593707250343% 79.06012439530062%;background-size: 490.90909090909093% 715.7446808510638%;background-image: url(bitsat_2023_s1.png);padding: 0; }
 div.BITSAT_2023_S1_S_93::after {max-width:374px; width:100%;height:0;padding: 0 0 62.83422459893048% 0;}
 
-/* $TexturePacker:SmartUpdate:d91e86e8148e7d4c722ed814df787d9b:725de7fe4ea30b45d187250b158133f0:438c848dc8793c0d8a326f7e7a361177$ */
+/* $TexturePacker:SmartUpdate:323ebddd47c58e69ea398e7023d5246d:03efd587b2348eb234df47ccce0d2e9a:438c848dc8793c0d8a326f7e7a361177$ */
